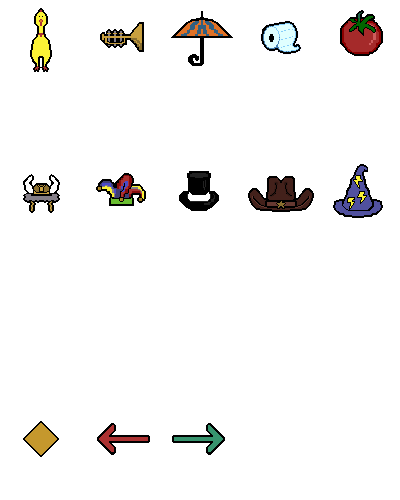
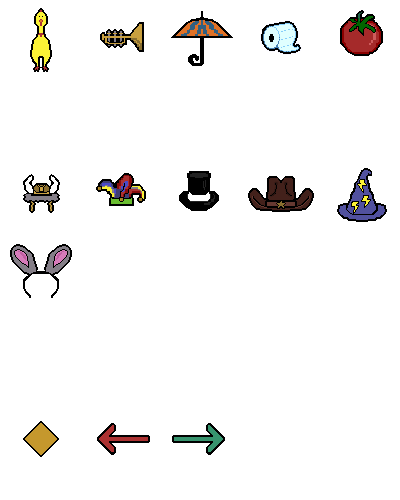
Add bunny ears

Changed region(s): [[0.03, 0.48, 0.18, 0.6], [0.81, 0.33, 0.96, 0.45]]

diff --git a/src/constants.ts b/src/constants.ts
@@ -20,6 +20,7 @@ export enum Costumes {
   topHat = "topHat",
   sherifHat = "sherifHat",
   magicianHat = "magicianHat",
+  bunnyEars = "bunnyEars",
 }
 
 export const IconPosition: { [key: string]: number } = {
@@ -33,6 +34,7 @@ export const IconPosition: { [key: string]: number } = {
   topHat: 12,
   sherifHat: 13,
   magicianHat: 14,
+  bunnyEars: 15,
   stageCenter: 25,
   stageLeft: 26,
   stageRight: 27,
